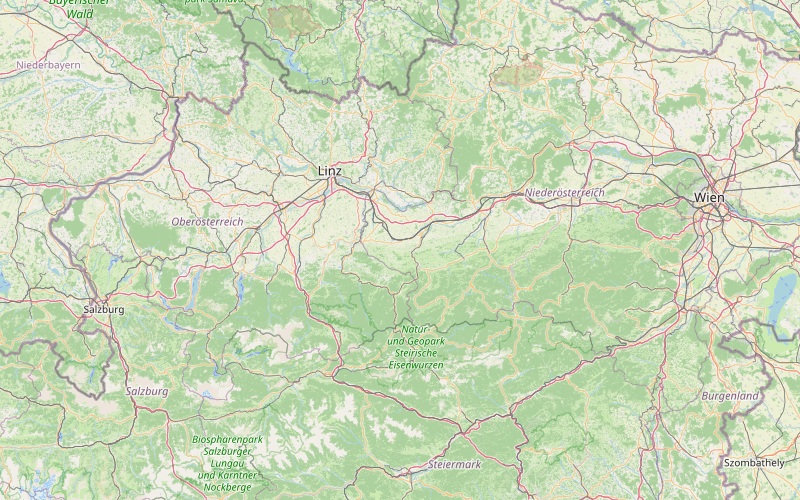
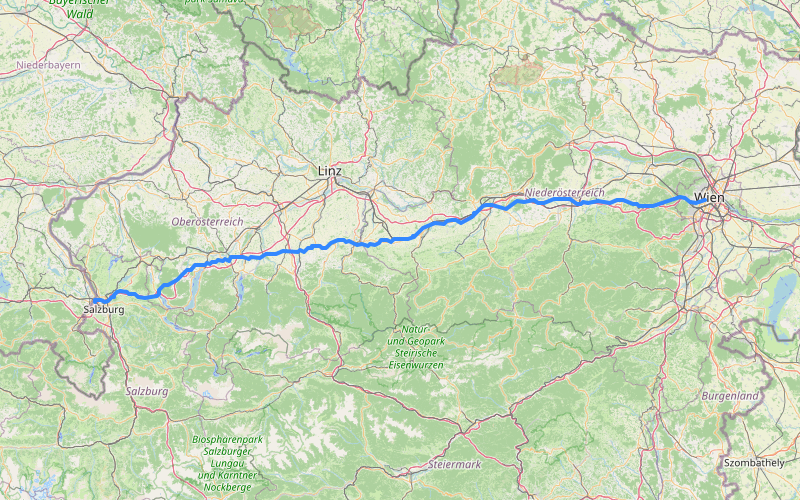
map now adapts to tour update

diff --git a/TourPlanner.Frontend/src/app/features/tours/tour-page/tour-page.component.ts b/TourPlanner.Frontend/src/app/features/tours/tour-page/tour-page.component.ts
@@ -56,6 +56,10 @@ export class TourPageComponent implements OnInit {
       this.formIsShown = true;
     }
 
+    startEditTour(): void {
+      this.formIsShown = true;
+    }
+
     //select tour for detal view
     onTourSelected(tour: Tour) {
       this.selectedTour = tour;
@@ -108,10 +112,18 @@ export class TourPageComponent implements OnInit {
     updateTour(id: number, tourDto: any): void {
       console.log("Aktualisiere Tour...", id, tourDto);
       
-      // ACHTUNG: Dein TourService muss updateTour(id, dto) unterstützen!
       this.tourService.updateTour(id, tourDto).subscribe({
-        next: () => {
+        next: async (updatedTour) => {
           this.hideForm();
+
+          if (updatedTour.routeGeoJson) {
+            try {
+              const snapshotBlob = await this.mapSnapshotService.createSnapshot(JSON.parse(updatedTour.routeGeoJson));
+              await this.tourService.uploadTourImage(updatedTour.id, snapshotBlob).toPromise();
+            } catch (error) {
+              console.error('Fehler beim Erzeugen oder Upload des Kartenbildes nach dem Update:', error);
+            }
+          }
 
           this.refreshSelectedTour(); 
         },

diff --git a/TourPlanner.Frontend/src/app/core/services/map-snapshot.service.ts b/TourPlanner.Frontend/src/app/core/services/map-snapshot.service.ts
@@ -34,7 +34,7 @@ export class MapSnapshotService {
     map.fitBounds(bounds, { padding: [20, 20] });
 
     await this.waitForTiles(map);
-    await this.waitForNextFrame(); // Canvas-Repaint abwarten
+    await this.waitForNextFrame(); // await canvas repaint
 
     const blob = await this.exportCanvas(map);
 
@@ -69,7 +69,7 @@ private waitForNextFrame(): Promise<void> {
         }
       });
 
-      // Fallback, falls 'load' aus irgendeinem Grund nicht feuert
+      // Ffallback if load doesnt work
       setTimeout(() => {
         if (!loaded) {
           loaded = true;

diff --git a/TourPlanner.Frontend/src/app/features/tours/tour-detail/tour-detail.component.ts b/TourPlanner.Frontend/src/app/features/tours/tour-detail/tour-detail.component.ts
@@ -12,6 +12,7 @@ import { environment } from '../../../../environments/environment';
 })
 export class TourDetailComponent {
   @Output() deleteTourEvent = new EventEmitter();
+  @Output() editTourEvent = new EventEmitter<void>();
   @Output() updateTourEvent = new EventEmitter<void>();
   private _tour!: Tour;
   readonly backendUrl = environment.apiUrl;
@@ -30,7 +31,7 @@ export class TourDetailComponent {
   }
 
   updateTour(): void{
-        this.updateTourEvent.emit();
+        this.editTourEvent.emit();
   }
 
   onLogChanged() {

diff --git a/TourPlanner.Frontend/src/app/features/tours/tour-page/tour-page.component.html b/TourPlanner.Frontend/src/app/features/tours/tour-page/tour-page.component.html
@@ -13,12 +13,14 @@
     *ngIf="selectedTour && !formIsShown"
     [tour]="selectedTour"
     (deleteTourEvent)="deleteTour()"
+    (editTourEvent)="startEditTour()"
     (updateTourEvent)="refreshSelectedTour()"
     class="detail-view">
   </app-tour-detail>
 
 <app-tour-form
     *ngIf="formIsShown"
+    [tourToEdit]="selectedTour"
     (formSubmitted)="formSubmit($event)"
     (formCancelled)="hideForm()">
   </app-tour-form>

diff --git a/TourPlanner.BL/TourService.cs b/TourPlanner.BL/TourService.cs
@@ -59,22 +59,23 @@ public class TourService : ITourService
         }
     }
 
-    public GetTourDTO UpdateTour(int id, CreateTourDTO updatedtour)
+    public async Task<GetTourDTO> UpdateTour(int id, CreateTourDTO updatedtour)
     {
         var tourToUpdate = _tourRepo.GetTour(id);
         if (tourToUpdate != null)
         {
+            var route = await _routeService.GetRouteAsync(updatedtour.From, updatedtour.To, updatedtour.TransportType);
+
             tourToUpdate.Name = updatedtour.Name;
             tourToUpdate.Description = updatedtour.Description;
             tourToUpdate.From = updatedtour.From;
             tourToUpdate.To = updatedtour.To;
             tourToUpdate.TransportType = Enum.Parse<TransportType>(updatedtour.TransportType);
-            tourToUpdate.TourDistance = 0; // This will be calculated later
-            tourToUpdate.EstimatedTime = 0; // This will be calculated later
-            tourToUpdate.ImagePath = ""; // This will be set later
+            tourToUpdate.TourDistance = (int)Math.Round(route.Distance);
+            tourToUpdate.EstimatedTime = (int)Math.Round(route.Duration / 60.0);
             tourToUpdate.UserId = 1; // This should be set to the currently logged-in user's ID - not really necessary here
             _tourRepo.UpdateTour(tourToUpdate);
-            return MapToGetTourDTO(tourToUpdate);
+            return MapToGetTourDTO(tourToUpdate, route.GeoJson);
         }
         else
         {

diff --git a/TourPlanner.API/Controllers/ToursController.cs b/TourPlanner.API/Controllers/ToursController.cs
@@ -92,13 +92,13 @@ public class ToursController : ControllerBase
     }
 
     [HttpPut("{id}")]
-    public ActionResult Update(int id, [FromBody] CreateTourDTO tour)
+    public async Task<ActionResult> Update(int id, [FromBody] CreateTourDTO tour)
     {
         if (!ModelState.IsValid)
         {
             return BadRequest(ModelState);
         }
-        GetTourDTO updatedTour = _tourService.UpdateTour(id, tour);
+        GetTourDTO updatedTour = await _tourService.UpdateTour(id, tour);
         return Ok(updatedTour);
     }
 }

diff --git a/TourPlanner.BL/ITourService.cs b/TourPlanner.BL/ITourService.cs
@@ -13,7 +13,7 @@ public interface ITourService
     //evtl andere DTOS nötig
     List<GetTourDTO> GetAllTours();
     GetTourDTO GetTourById(int id);
-    GetTourDTO UpdateTour(int id, CreateTourDTO tour);
+    Task<GetTourDTO> UpdateTour(int id, CreateTourDTO tour);
     GetTourDTO UpdateTourImage(int id, string imagePath);
     Task<GetTourDTO> AddTour(CreateTourDTO tour); 
     void DeleteTour(int id);